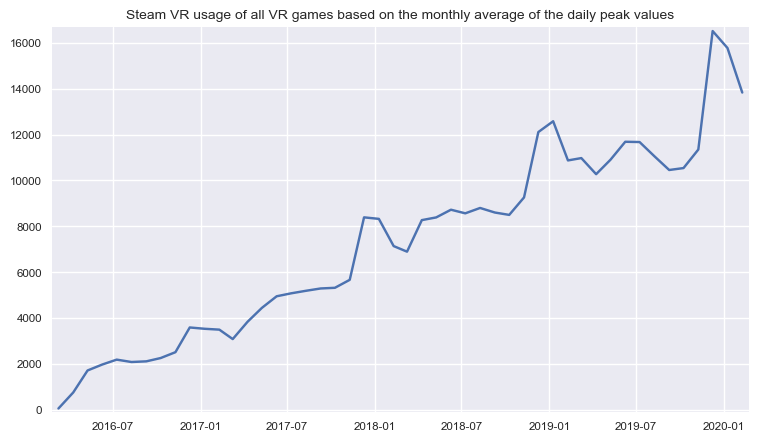
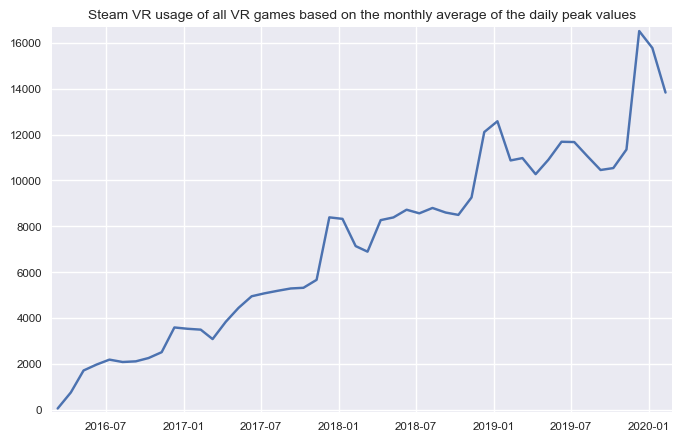
update

diff --git a/src/create_charts.py b/src/create_charts.py
@@ -123,7 +123,7 @@ def main():
     plt.rcParams['axes.xmargin'] = 0.01
     plt.rcParams['axes.ymargin'] = 0.01
     params = {'legend.fontsize': 'small',
-              'figure.figsize': (9, 5),
+              'figure.figsize': (8, 5),
               'axes.labelsize': 'small',
               'axes.titlesize': 'medium',
               'xtick.labelsize': 'small',
